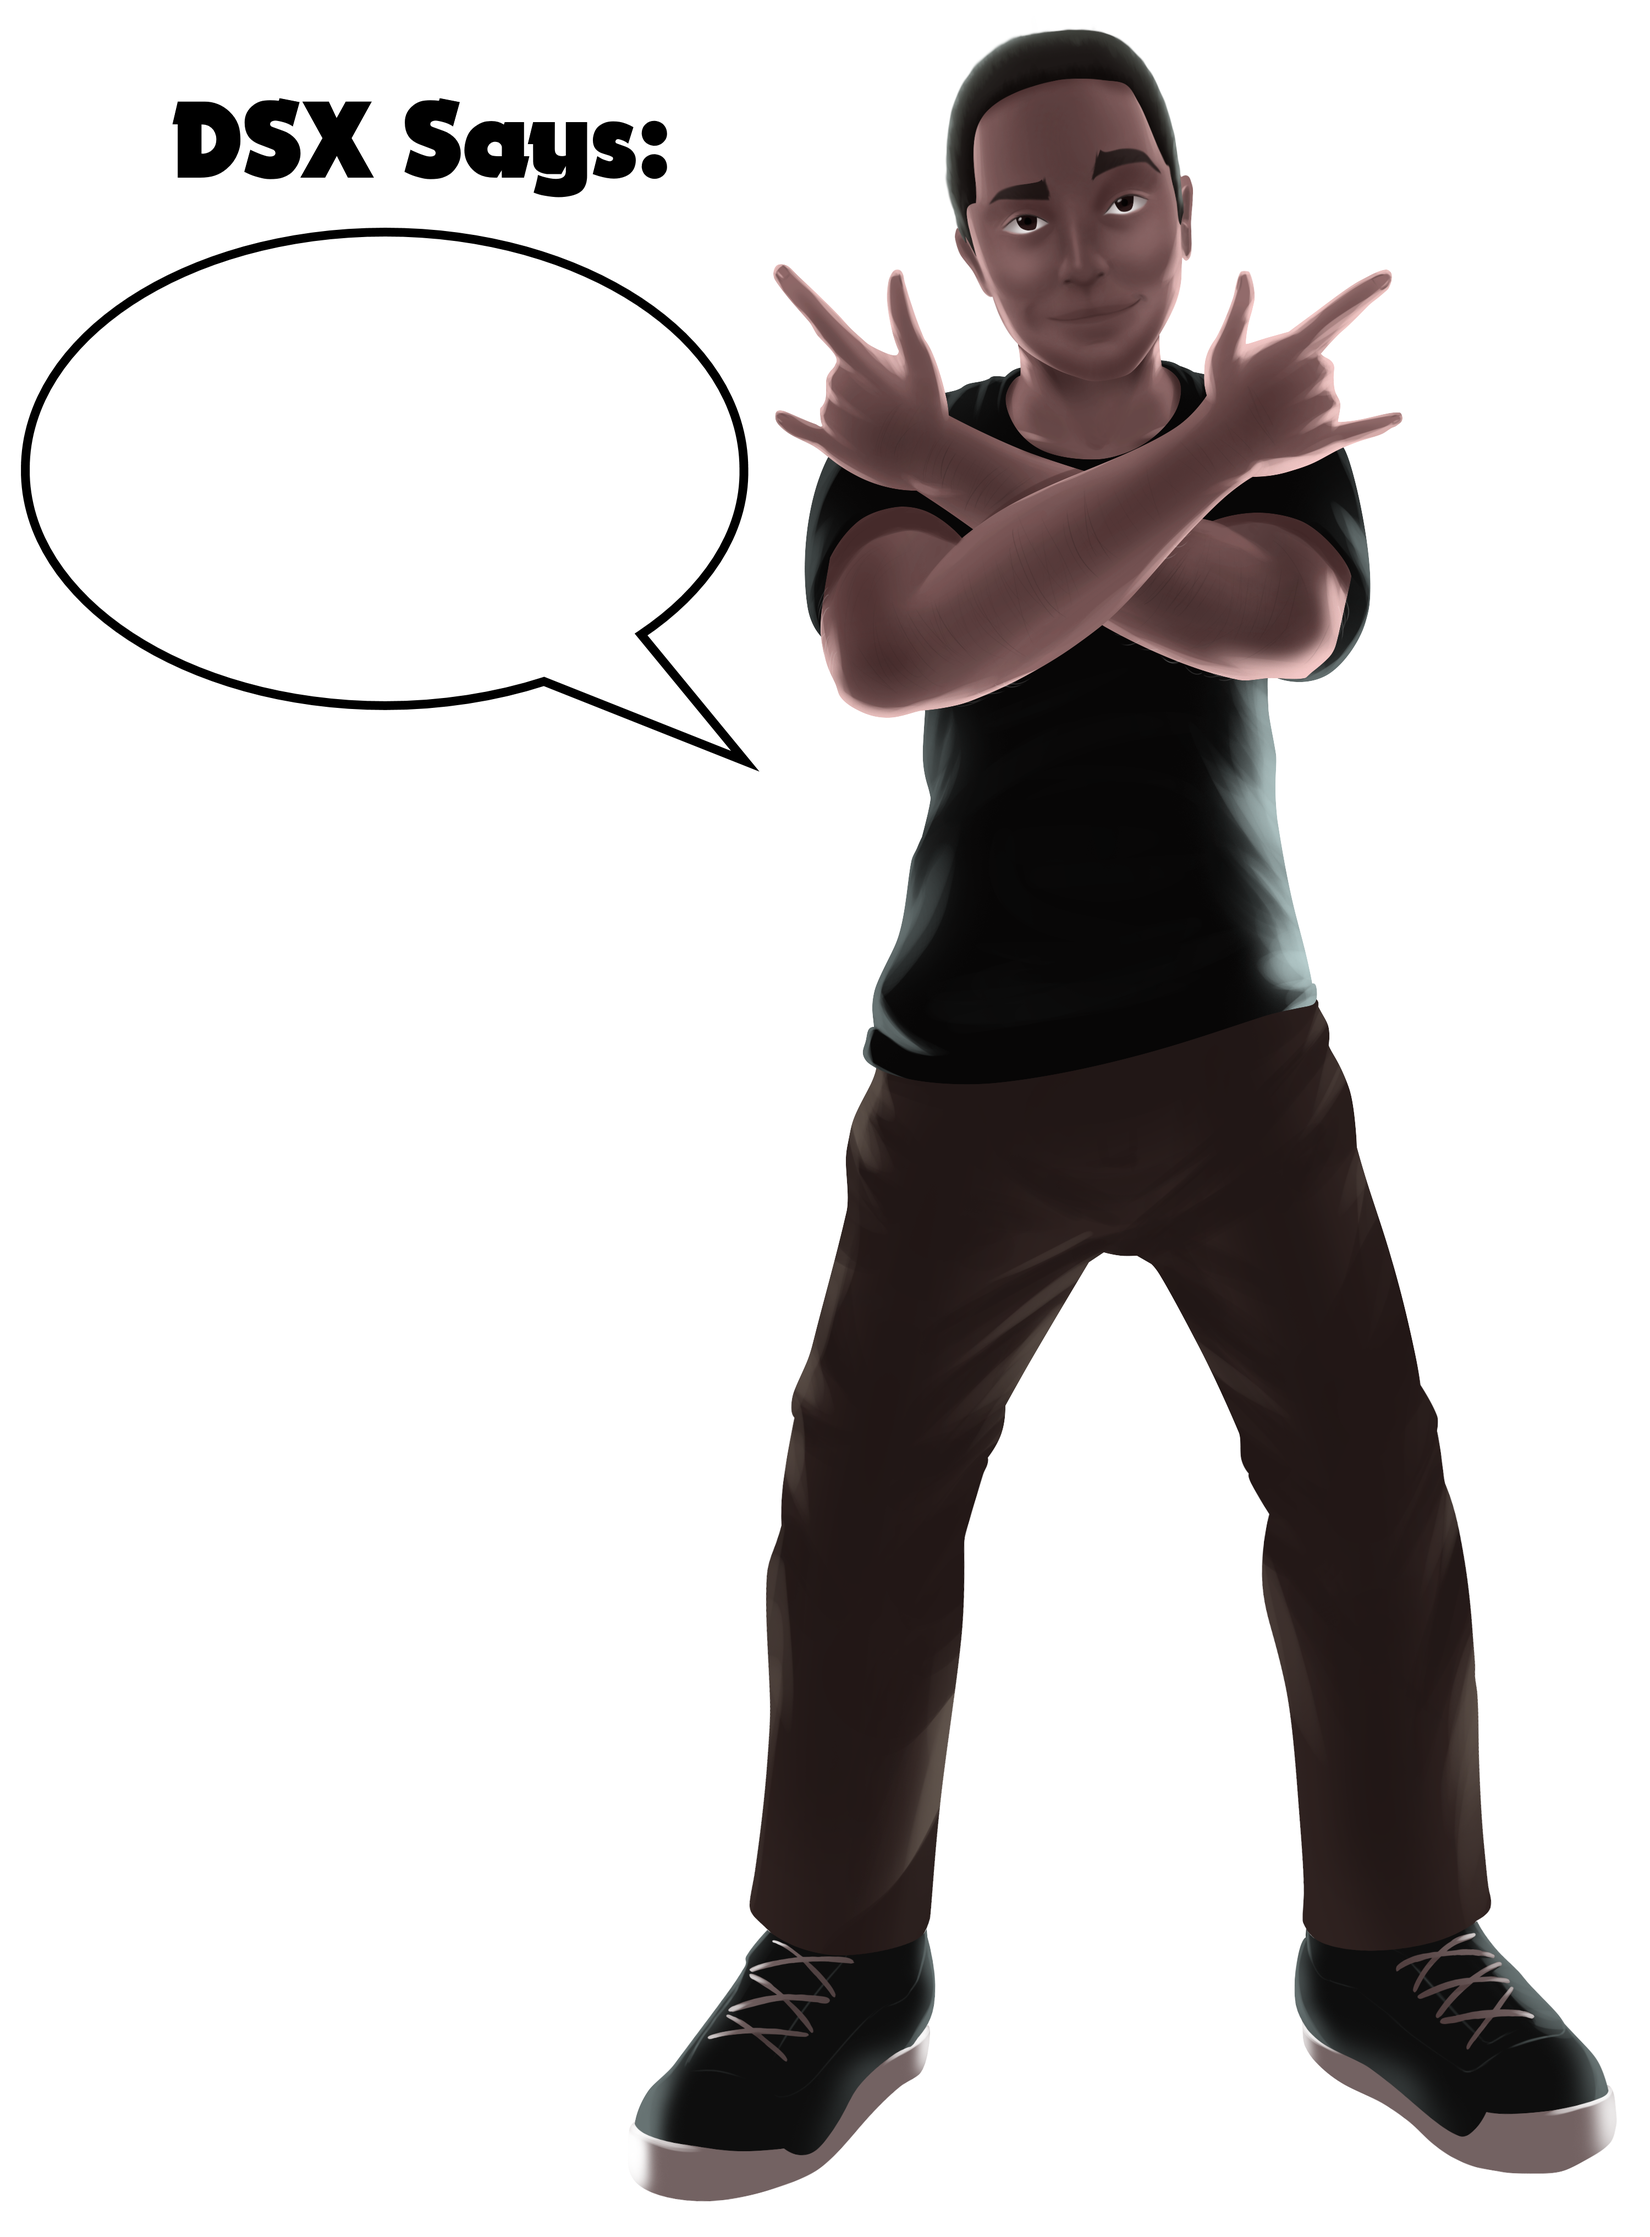
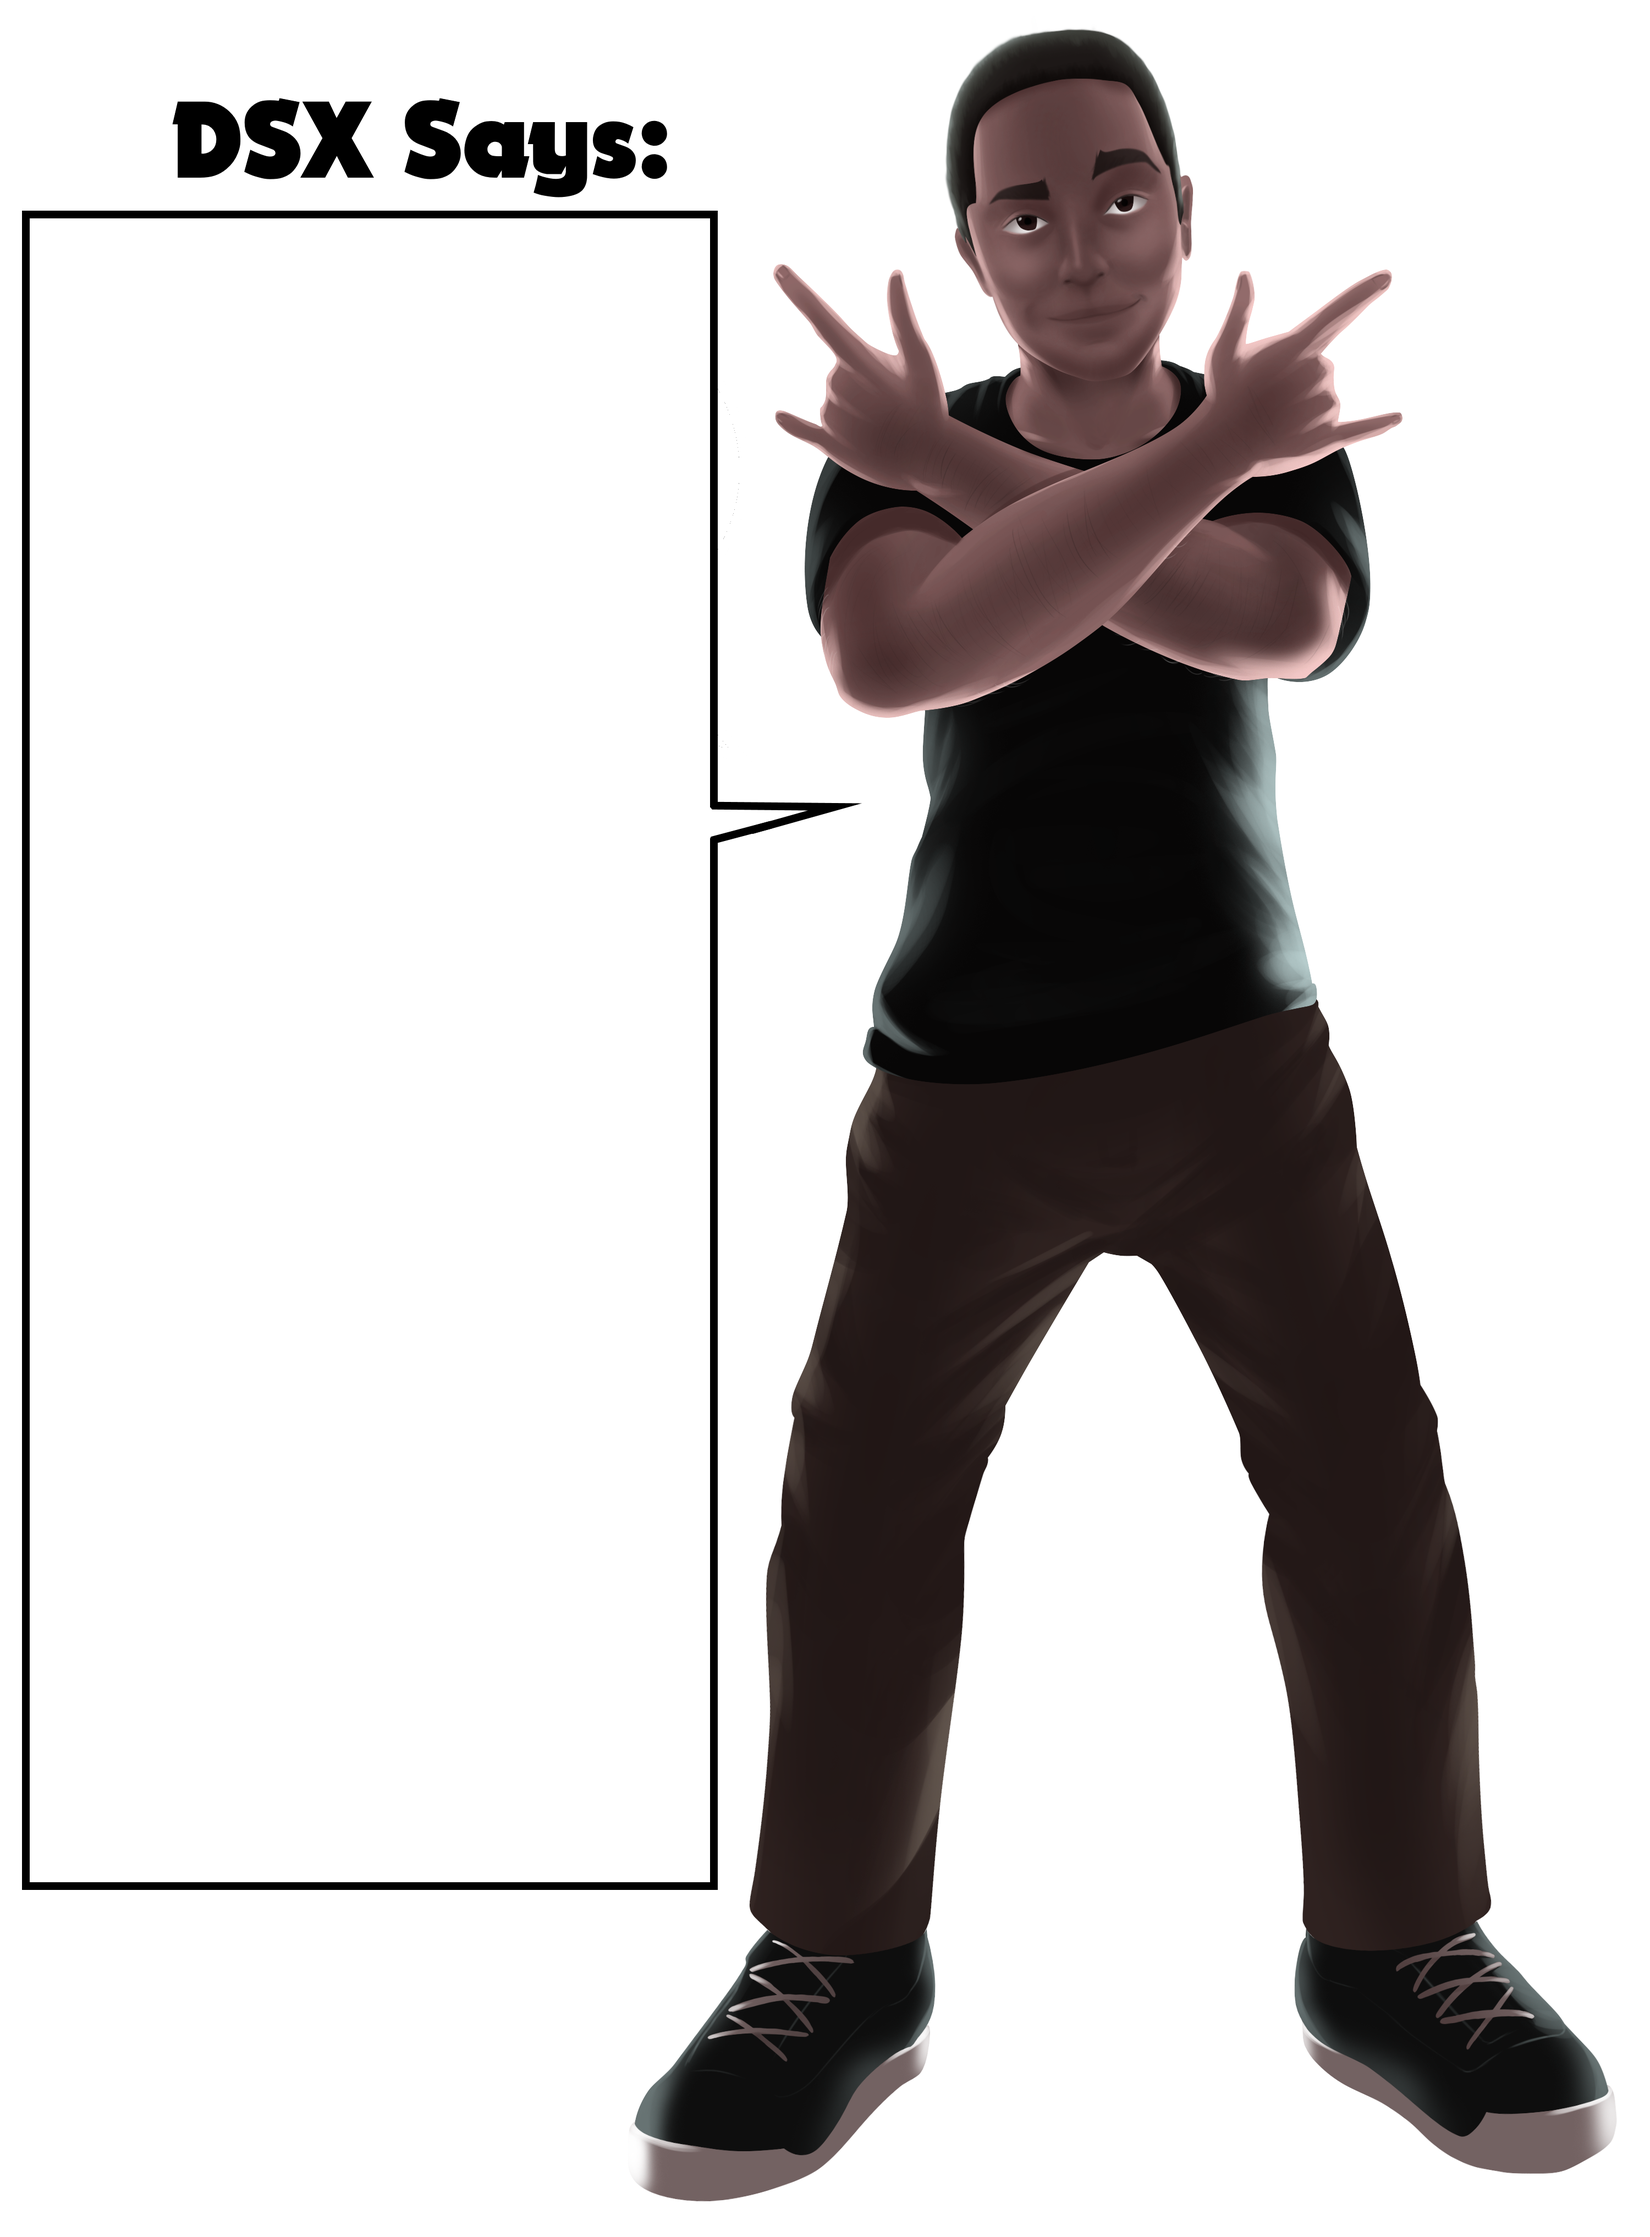
new text centering logic

diff --git a/src/main/java/com/godson/kekbot/command/commands/meme/DSXSays.java b/src/main/java/com/godson/kekbot/command/commands/meme/DSXSays.java
@@ -3,6 +3,7 @@ package com.godson.kekbot.command.commands.meme;
 import com.godson.kekbot.command.Command;
 import com.godson.kekbot.command.CommandEvent;
 import com.godson.kekbot.command.TextImageCommand;
+import com.godson.kekbot.util.ImageUtils;
 import com.godson.kekbot.util.Utils;
 
 import javax.imageio.ImageIO;
@@ -40,56 +41,10 @@ public class DSXSays extends Command {
                 graphics.setFont(new Font("Calibri", Font.BOLD, 144));
                 graphics.setColor(Color.BLACK);
 
-                StringBuilder text = new StringBuilder();
-                String[] words = Utils.removeWhitespaceEdges(message).split(" ");
-
-                //Max width for text we can go:
-                int maxTextWidth = 1226;
-
-                //This snippet of code separates the message, going over every space and separating any text into a new line if too long.
-                //Because this only treats the separation with spaces, really long words like "Supercalifragilistic" go over the boarder.
-                StringBuilder test = new StringBuilder();
-                for (String word : words) {
-                    if (graphics.getFont().getStringBounds(word, graphics.getFontRenderContext()).getWidth() > maxTextWidth) {
-                        event.getChannel().sendMessage(event.getString("command.textimage.texttoolong")).queue();
-                        return;
-                    }
-                    if (graphics.getFont().getStringBounds(test + " " + word, graphics.getFontRenderContext()).getWidth() <= maxTextWidth)
-                        test.append(word).append(" ");
-                    else {
-                        text.append(test).append("\n");
-                        test.delete(0, test.length());
-                        test.append(word).append(" ");
-                    }
-                }
-                text.append(test);
-
-                //Total height of all the text.
-                int totalY = 0;
-
-                //Splits the text into an array with every new line it bumps into.
-                String[] split = text.toString().split("\n");
-
-                //For loop to determine total height of all text.
-                for (int i = 0; i < split.length; i++) {
-                    totalY += graphics.getFontMetrics().getHeight();
-                }
-
-                if (totalY > graphics.getFontMetrics().getHeight() * 3) {
+                if (!ImageUtils.drawCenteredString(graphics, message, 54, 397, 1237, 3025)) {
                     event.getChannel().sendMessage(event.getString("command.textimage.texttoolong")).queue();
                     return;
                 }
-
-                //Some math stuff for centering the image.
-                Rectangle2D r2D = graphics.getFont().getStringBounds(split[0], graphics.getFontRenderContext());
-                int rWidth = (int) Math.round(r2D.getWidth());
-                int rHeight = (int) Math.round(r2D.getHeight());
-                int rX = (int) Math.round(r2D.getX());
-                int rY = (int) Math.round(r2D.getY());
-                int a = (1226 / 2) - (rWidth / 2) - rX;
-                int b = (750 / 2) - (rHeight / 2) - rY;
-
-                drawString(graphics, text.toString(), 88 + a, 473 + b - (totalY <= graphics.getFontMetrics().getHeight() * 2 ? totalY : graphics.getFontMetrics().getHeight() * 2));
 
                 graphics.dispose();
                 ByteArrayOutputStream stream = new ByteArrayOutputStream();

diff --git a/src/main/java/com/godson/kekbot/command/commands/meme/Kaede.java b/src/main/java/com/godson/kekbot/command/commands/meme/Kaede.java
@@ -1,5 +1,6 @@
 package com.godson.kekbot.command.commands.meme;
 
+import com.godson.kekbot.util.ImageUtils;
 import com.godson.kekbot.util.Utils;
 import com.godson.kekbot.command.*;
 
@@ -132,47 +133,7 @@ public class Kaede extends Command {
 
         graphics.rotate(Math.toRadians(-6.92));
 
-        StringBuilder text = new StringBuilder();
-        String[] words = Utils.removeWhitespaceEdges(string).split(" ");
-
-        //This snippet of code separates the message, going over every space and separating any text into a new line if too long.
-        //Because this only treats the separation with spaces, really long words like "Supercalifragilistic" go over the boarder.
-        StringBuilder test = new StringBuilder();
-        for (String word : words) {
-            if (graphics.getFont().getStringBounds(word, graphics.getFontRenderContext()).getWidth() > 610) throw new IllegalArgumentException("String too long pls");
-            if (graphics.getFont().getStringBounds(test + " " + word, graphics.getFontRenderContext()).getWidth() <= 610)
-                test.append(word).append(" ");
-            else {
-                text.append(test).append("\n");
-                test.delete(0, test.length());
-                test.append(word).append(" ");
-            }
-        }
-        text.append(test);
-
-        //Total height of all the text.
-        int totalY = 0;
-
-        //Splits the text into an array with every new line it bumps into.
-        String[] split = text.toString().split("\n");
-
-        //For loop to determine total height of all text.
-        for (int i = 0; i < split.length; i++) {
-            totalY += graphics.getFontMetrics().getHeight();
-        }
-
-        if (totalY > graphics.getFontMetrics().getHeight() * 3) throw new IllegalArgumentException("String too long pls");
-
-        //Some math stuff for centering the image.
-        Rectangle2D r2D = graphics.getFont().getStringBounds(split[0], graphics.getFontRenderContext());
-        int rWidth = (int) Math.round(r2D.getWidth());
-        int rHeight = (int) Math.round(r2D.getHeight());
-        int rX = (int) Math.round(r2D.getX());
-        int rY = (int) Math.round(r2D.getY());
-        int a = (610 / 2) - (rWidth / 2) - rX;
-        int b = (379 / 2) - (rHeight / 2) - rY;
-
-        drawString(graphics, text.toString(), 60 + a, 717 + b - (totalY <= graphics.getFontMetrics().getHeight() * 2 ? totalY : graphics.getFontMetrics().getHeight() * 2));
+        if (!ImageUtils.drawCenteredString(graphics, string, 60, 690, 610, 379)) throw new IllegalArgumentException("String too long pls");
 
         graphics.dispose();
         ByteArrayOutputStream stream = new ByteArrayOutputStream();
@@ -185,7 +146,7 @@ public class Kaede extends Command {
         return finished;
     }
 
-    private void drawString(Graphics g, String text, int x, int y) {
+    private static void drawString(Graphics g, String text, int x, int y) {
         for (String line : text.split("\n"))
             g.drawString(line, x, y += g.getFontMetrics().getHeight());
     }

diff --git a/src/main/java/com/godson/kekbot/util/ImageUtils.java b/src/main/java/com/godson/kekbot/util/ImageUtils.java
@@ -1,0 +1,60 @@
+package com.godson.kekbot.util;
+
+import java.awt.*;
+import java.awt.geom.Rectangle2D;
+
+public class ImageUtils {
+
+    public static boolean drawCenteredString(Graphics2D graphics, String str, int posX, int posY, int maxWidth, int maxHeight) {
+        StringBuilder text = new StringBuilder();
+        String[] words = Utils.removeWhitespaceEdges(str).split(" ");
+
+        //This snippet of code separates the message, going over every space and separating any text into a new line if too long.
+        //Because this only treats the separation with spaces, really long words like "Supercalifragilistic" go over the boarder.
+        StringBuilder test = new StringBuilder();
+        for (String word : words) {
+            if (graphics.getFont().getStringBounds(word, graphics.getFontRenderContext()).getWidth() > maxWidth) {
+                return false;
+            }
+            if (graphics.getFont().getStringBounds(test + " " + word, graphics.getFontRenderContext()).getWidth() <= maxWidth)
+                test.append(word).append(" ");
+            else {
+                text.append(test).append("\n");
+                test.delete(0, test.length());
+                test.append(word).append(" ");
+            }
+        }
+        text.append(test);
+
+        //Total height of all the text.
+        int totalHeight = 0;
+
+        //The highest width gathered from all the lines of text.
+        int highestWidth = 0;
+
+        //Splits the text into an array with every new line it bumps into.
+        String[] split = text.toString().split("\n");
+
+        //For loop to determine total height of all text.
+        for (int i = 0; i < split.length; i++) {
+            totalHeight += graphics.getFontMetrics().getHeight();
+            Rectangle2D temp = graphics.getFontMetrics().getStringBounds(split[i], graphics);
+            if (temp.getWidth() > highestWidth) highestWidth = (int) Math.round(temp.getWidth());
+        }
+
+        if (totalHeight > maxHeight) {
+            return false;
+        }
+
+        //Some math stuff for centering the image.
+        int a = (maxWidth / 2) - (highestWidth / 2);
+        int b = (maxHeight / 2) - (totalHeight / 2);
+        drawString(graphics, text.toString(), posX + a, posY + b); //(totalY / 2));
+        return true;
+    }
+
+    private static void drawString(Graphics g, String text, int x, int y) {
+        for (String line : text.split("\n"))
+            g.drawString(line, x, y += g.getFontMetrics().getHeight());
+    }
+}

diff --git a/src/main/java/com/godson/kekbot/command/commands/meme/SwitchSetup.java b/src/main/java/com/godson/kekbot/command/commands/meme/SwitchSetup.java
@@ -37,10 +37,8 @@ public class SwitchSetup extends ImageCommand {
         Rectangle2D r2D = new Rectangle(dimension);
         int rWidth = (int) Math.round(r2D.getWidth());
         int rHeight = (int) Math.round(r2D.getHeight());
-        int rX = (int) Math.round(r2D.getX());
-        int rY = (int) Math.round(r2D.getY());
-        int a = (174 / 2) - (rWidth / 2) - rX;
-        int b = (157 / 2) - (rHeight / 2) - rY;
+        int a = (174 / 2) - (rWidth / 2);
+        int b = (157 / 2) - (rHeight / 2);
 
         graphics.drawImage(image, 366 + a, 214 + b, dimension.width, dimension.height, null);
         graphics.drawImage(base, 0, 0, null);
